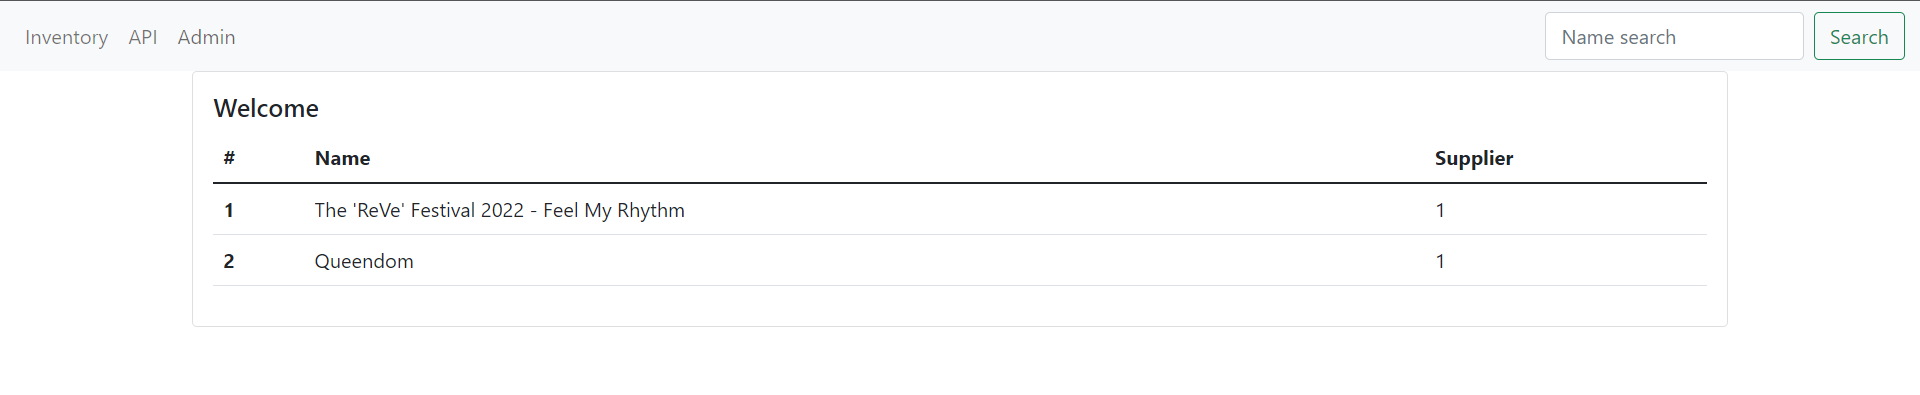
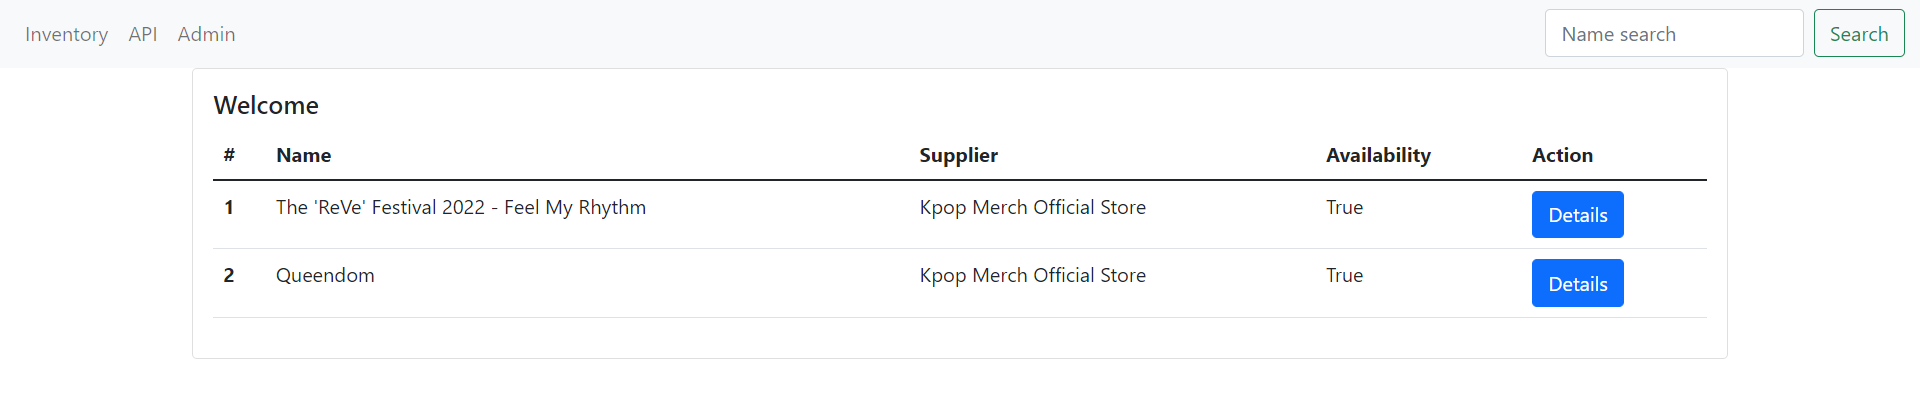
Touch Ups

diff --git a/inventory/templates/inventory/index.html b/inventory/templates/inventory/index.html
@@ -10,6 +10,8 @@
                         <th scope="col">#</th>
                         <th scope="col">Name</th>
                         <th scope="col">Supplier</th>
+                        <th scope="col">Availability</th>
+                        <th scope="col">Action</th>
                     </tr>
                 </thead>
                 <tbody>
@@ -18,6 +20,12 @@
                         <th scope="row">{{ item.id }}</th>
                         <td>{{ item.name }}</td>
                         <td>{{ item.supplier }}</td>
+                        <td>{{ item.availability }}</td>
+                        <td>
+                            <form action="{% url 'inventory:search_by_id' item.id %}">
+                                <button type="submit" class="btn btn-primary">Details</button>
+                            </form>
+                        </td>
                     </tr>
                     {% endfor %}
                 </tbody>

diff --git a/inventory/views.py b/inventory/views.py
@@ -5,13 +5,16 @@ from django.db.models import Q
 
 # Create your views here.
 def index(request):
-    # queryset = inventory.objects.all()
-    # context = {
-    #     'inventory': queryset,
-    # }
 
     response = requests.get('http://127.0.0.1:8000/api/inventory')
     inv_data = response.json()
+
+    # Get all suppliers
+    # supplier_name = supplier.objects.all().values('id','name')
+
+    for inv in inv_data["data"]:
+        inv["supplier"] = supplier.objects.filter(id=inv["supplier"]).values_list('name').first()[0]
+
     context = {
         'inv_list': inv_data['data'],
     }

diff --git a/inventory_api/api.py b/inventory_api/api.py
@@ -8,4 +8,5 @@ class inv_serializer(ModelSerializer):
             "id",
             "name",
             "supplier",
+            "availability",
         )

diff --git a/README.md b/README.md
@@ -26,6 +26,8 @@ This document will breakdown the units of this project according to the assignme
 ## Question A
 Django app called inventory is created containing two models; inventory and supplier
 
+The data of these models are set to NULL=False
+
 <p align="center">
 <img src="https://github.com/hmtschnk/kiratech/blob/main/staticfiles/readme_md/database_structure.png" width="450">
 </p>
@@ -43,6 +45,10 @@ The result of the above page is retrieved from Django Rest Framework at http://1
 <img src="https://github.com/hmtschnk/kiratech/blob/main/staticfiles/readme_md/api_inventory.png" width="450">
 </p>
 
+Side note: Due to time contrain, I did not manage to create API filter using name using "?". However, user may filter the API by name using "/". For example:
+ 
+http://127.0.0.1:8000/api/inventory/Queendom
+
 User may filter the list by name using the top right corner of the page
 
 <p align="center">
@@ -52,19 +58,48 @@ User may filter the list by name using the top right corner of the page
 ## Question C
 User view the details of a specific inventory by adding inventory ID at the URL. For example; http://127.0.0.1:8000/inventory/1
 
+Or User can just click 'Details'
+
 <p align="center">
 <img src="https://github.com/hmtschnk/kiratech/blob/main/staticfiles/readme_md/inventory_1.png" width="450">
 </p>
 ## Question D
 Django admin can be accessed using the 'Admin' button at navigation bar or by using this link; http://127.0.0.1:8000/admin
+
 Below is the username and password:
 
 ```
 Username: demo
 Password: demo
 ```
+<p align="center">
+<img src="https://github.com/hmtschnk/kiratech/blob/main/staticfiles/readme_md/admin.png" width="450">
+</p>
 
 Admin may add new inventory records at invetorys
 
 ## Question C
-All the routings of this project has been tested and they are working fine.
+Test case:
+
+1. Go to project index; http://127.0.0.1:8000/inventory
+
+2. Go to http://127.0.0.1:8000/admin and login to Admin
+
+3. Head over to http://127.0.0.1:8000/admin/inventory/inventory/add/ to add the following details
+
+```
+Name: Summer Magic
+Description: EP
+Note: Summer Album
+Stock: 50
+Avalability: Checked
+Supplier: Kpop Planet.my
+```
+
+3. Return to http://127.0.0.1:8000/inventory and the new inventory will be listed
+
+4. Click on details to view more info about the album
+
+5. Visit http://127.0.0.1:8000/api/inventory and the new inventory will be listed
+
+6. To filter for a specific name, User may use the search form at the top right corner 
